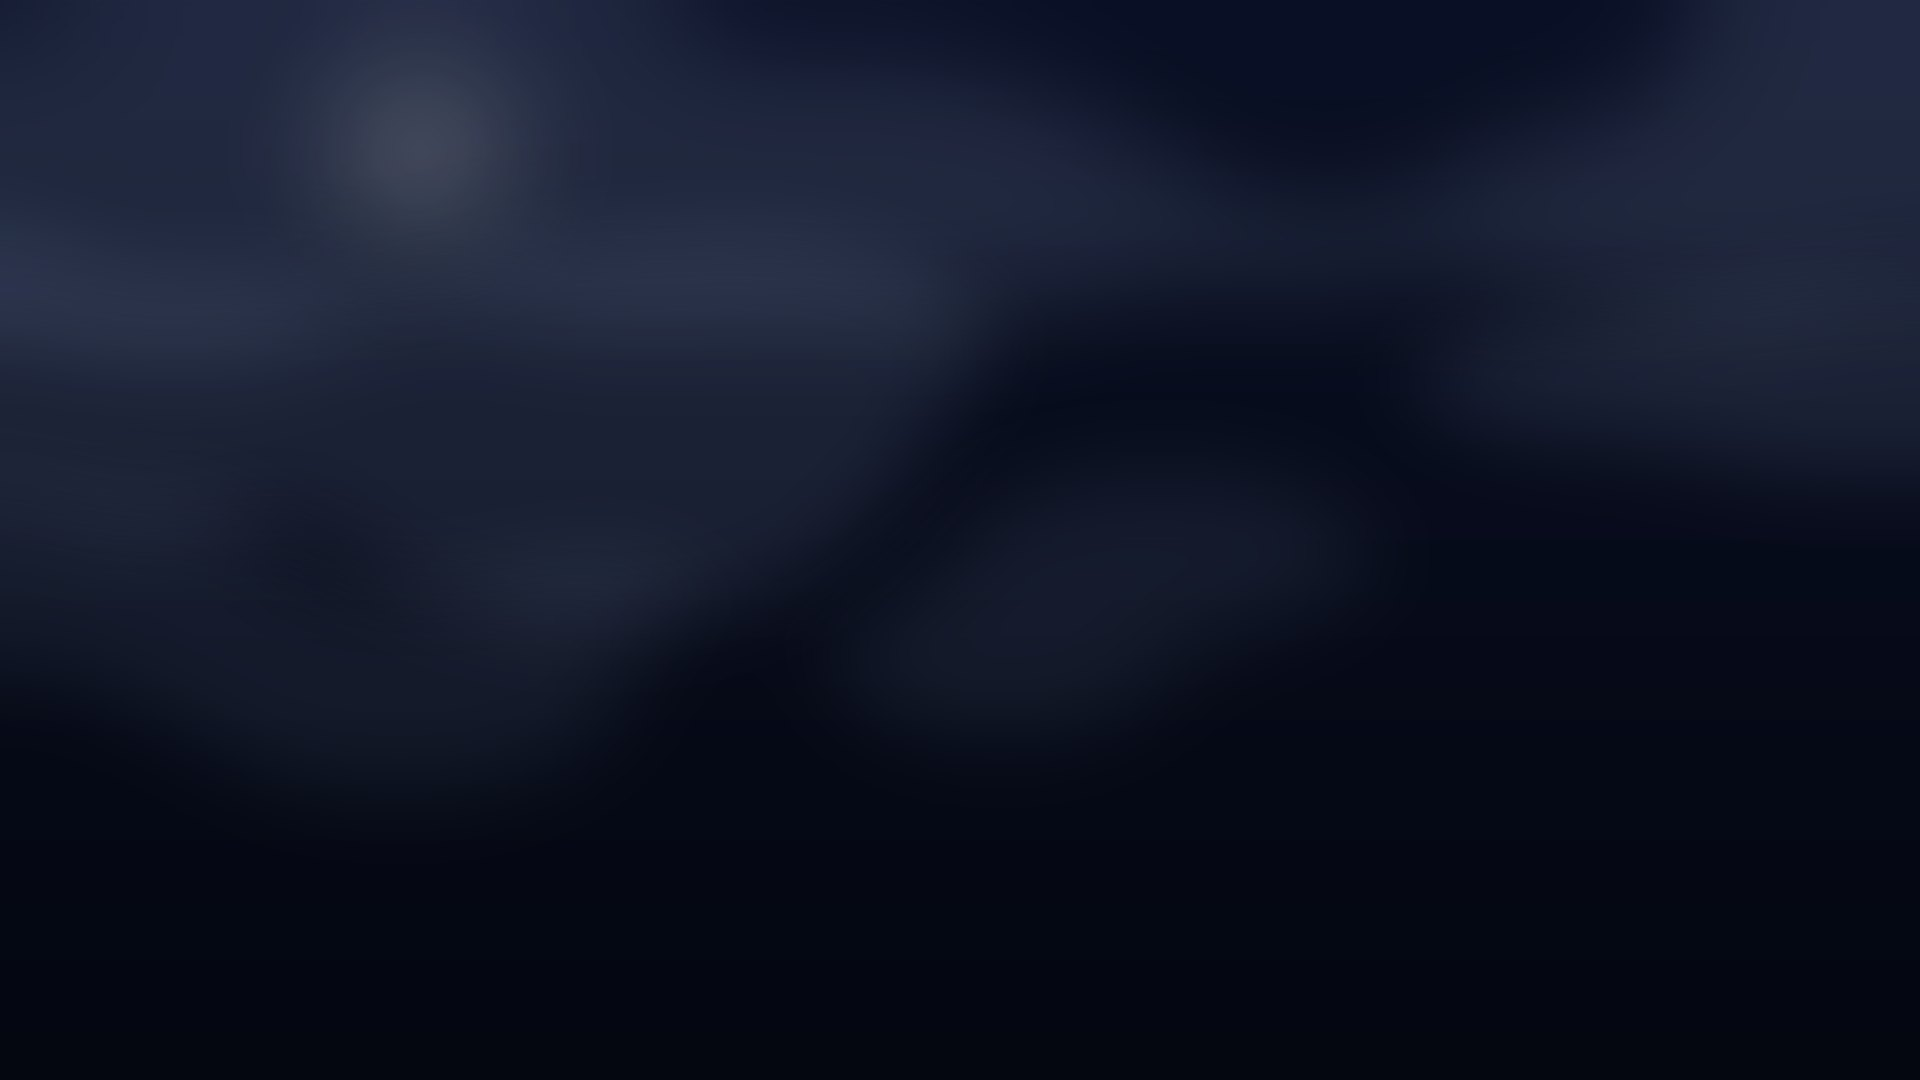
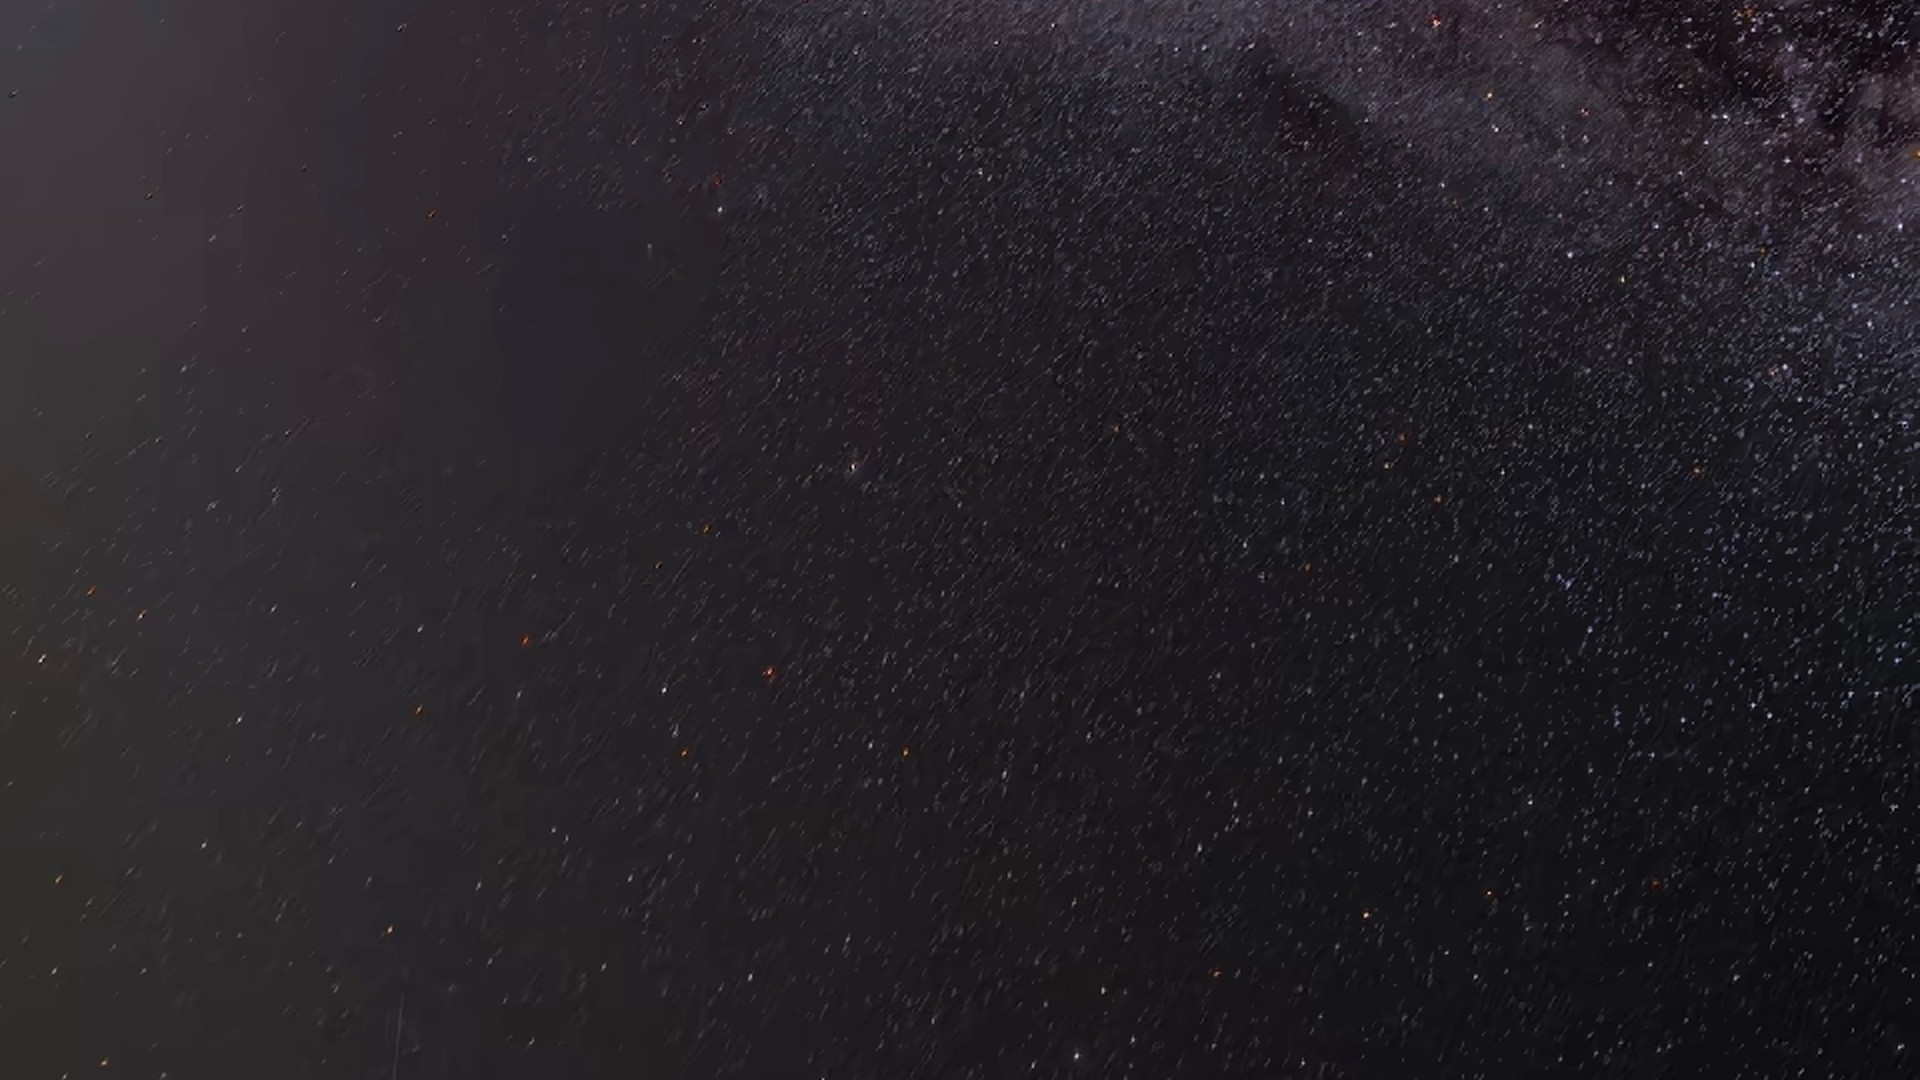
feat: 个人信息头像改为上传，保留外链作为备选
Profile 原来只有 avatar_url（外链），需要自己找图床。
改成 ImageField 本地上传，同时保留外链字段兼容旧数据。

模型：
- 新增 avatar = ImageField(upload_to='avatars/')
  用 ImageField 而非 FileField：前者会真的解码校验是图片，
  防止有人传个 .jpg 后缀的脚本
- avatar_url 保留，但语义改为「仅在没上传头像时使用」
- 新增 avatar_src 属性统一取头像地址：上传优先，其次外链，
  都没有则返回空串。模板靠它判断是否渲染 <img>，
  避免显示破图框

为什么用属性而不是在模板里写两层 if：
头像要在首页侧栏和关于页两处使用，
逻辑写一处才不会两处走偏。

Admin：
- fieldsets 分「基本信息 / 头像 / 联系方式」
- 列表页 avatar_preview 显示 32px 圆形缩略图
- 编辑页 avatar_preview_large 显示 96px 预览，
  上传后保存就能确认结果，不用去前台看
- 预览用 format_html 而不是字符串拼 HTML，
  它会转义参数，避免 URL 里的特殊字符破坏标签

模板：
- _profile_card.html 与 about.html 都改用 avatar_src

测试（ProfileAvatarTest，4 个）：
- 两个都空时 avatar_src 为空串
- 没上传时回退到外链
- 两个都有时上传的优先（最容易写反的地方）
- 上传后首页与关于页都渲染该头像
- tearDown 删除测试产生的文件：上传文件不随测试数据库回滚

实测：
- Admin 表单 enctype=multipart/form-data，文件框 accept=image/*
- 上传 200x200 PNG 写入 media/avatars/，HTTP 200 image/png
- 首页与关于页均正确渲染 /media/avatars/xxx.png
- 47 个测试通过

diff --git a/blog/templates/blog/_profile_card.html b/blog/templates/blog/_profile_card.html
@@ -1,8 +1,8 @@
 {% if profile.nickname %}
     <section class="glass p-5">
         <div class="flex items-start gap-4">
-            {% if profile.avatar_url %}
-                <img src="{{ profile.avatar_url }}" alt="{{ profile.nickname }}"
+            {% if profile.avatar_src %}
+                <img src="{{ profile.avatar_src }}" alt="{{ profile.nickname }}"
                      class="h-16 w-16 shrink-0 rounded-full object-cover">
             {% else %}
                 <div class="flex h-16 w-16 shrink-0 items-center justify-center rounded-full bg-brand/10 text-xl font-semibold text-brand dark:bg-brand/20">

diff --git a/blog/templates/blog/about.html b/blog/templates/blog/about.html
@@ -6,8 +6,8 @@
 
         {% if profile.nickname %}
             <div class="mt-6 flex items-start gap-5">
-                {% if profile.avatar_url %}
-                    <img src="{{ profile.avatar_url }}" alt="{{ profile.nickname }}"
+                {% if profile.avatar_src %}
+                    <img src="{{ profile.avatar_src }}" alt="{{ profile.nickname }}"
                          class="h-20 w-20 shrink-0 rounded-full object-cover">
                 {% endif %}
                 <div class="min-w-0">

diff --git a/blog/admin.py b/blog/admin.py
@@ -5,7 +5,9 @@ admin.py 配置 Django 后台的显示方式。
 ModelAdmin 里的每一项都是「展示层」配置，不影响数据存储和校验规则。
 """
 from django.contrib import admin, messages
-from .models import Post, Category, Tag, WeeklyProgress, Project, Profile, GuestbookMessage
+from django.utils.html import format_html
+
+from .models import Category, GuestbookMessage, Post, Profile, Project, Tag, WeeklyProgress
 
 
 @admin.register(Post)
@@ -112,7 +114,46 @@ class ProjectAdmin(admin.ModelAdmin):
 
 @admin.register(Profile)
 class ProfileAdmin(admin.ModelAdmin):
-    list_display = ('nickname', 'tagline', 'email', 'updated_date')
+    list_display = ('nickname', 'avatar_preview', 'tagline', 'email', 'updated_date')
+    # 单例模型，只有一条记录，不需要搜索和筛选
+    fieldsets = (
+        ('基本信息', {
+            'fields': ('nickname', 'tagline'),
+        }),
+        ('头像', {
+            'fields': ('avatar', 'avatar_preview_large', 'avatar_url'),
+            'description': '两个都填时，上传的图片优先生效。'
+                           '上传后保存即可看到预览，不需要先去前台确认。',
+        }),
+        ('联系方式', {
+            'fields': ('email', 'github_url', 'social_links'),
+        }),
+    )
+    # 预览图不能在保存后手动改，否则会误导
+    readonly_fields = ('avatar_preview_large',)
+
+    @admin.display(description='头像')
+    def avatar_preview(self, obj):
+        """列表页的小缩略图。"""
+        src = obj.avatar_src if obj else ''
+        if not src:
+            return '（未设置）'
+        return format_html(
+            '<img src="{}" style="height:32px;width:32px;border-radius:50%;object-fit:cover;">',
+            src,
+        )
+
+    @admin.display(description='当前头像')
+    def avatar_preview_large(self, obj):
+        """编辑页的大预览，方便确认上传结果。"""
+        src = obj.avatar_src if obj else ''
+        if not src:
+            return '（还没上传头像）'
+        return format_html(
+            '<img src="{}" style="height:96px;width:96px;border-radius:50%;'
+            'object-fit:cover;border:1px solid #ddd;">',
+            src,
+        )
 
     def has_add_permission(self, request):
         # 单例模型：已经存在一条时不再允许「新增」，

diff --git a/blog/models.py b/blog/models.py
@@ -210,7 +210,26 @@ class Profile(models.Model):
     # 单例模型：全局只应该有一条记录。用 OneToOneField 指向用户 +
     # save() 里强制 pk=1 双保险，避免后台误建第二条
     nickname = models.CharField(max_length=50)
-    avatar_url = models.URLField(blank=True, default='')
+
+    # 头像两种来源，优先用上传的文件：
+    # avatar 是本地图（推荐），avatar_url 留着兼容外链头像。
+    # 用 ImageField 而不是 FileField：前者会校验确实是图片，
+    # 避免有人传个 .jpg 后缀的脚本上去。
+    # blank=True 与 default='' 配对：没传时存空字符串而不是 NULL，
+    # 模板里 {% if profile.avatar %} 能直接判断
+    avatar = models.ImageField(
+        upload_to='avatars/',
+        blank=True,
+        default='',
+        verbose_name='头像（上传）',
+        help_text='上传后优先生效；留空则用下面的外链地址',
+    )
+    avatar_url = models.URLField(
+        blank=True,
+        default='',
+        verbose_name='头像（外链）',
+        help_text='仅在没上传头像时使用',
+    )
     tagline = models.CharField(max_length=120, blank=True, default='')
     email = models.EmailField(blank=True, default='')
     github_url = models.URLField(blank=True, default='')
@@ -225,6 +244,22 @@ class Profile(models.Model):
 
     def __str__(self):
         return self.nickname
+
+    @property
+    def avatar_src(self):
+        """模板里统一用这个取头像地址。
+
+        上传的图优先，其次外链，都没有则返回空字符串，
+        模板靠 {% if profile.avatar_src %} 判断是否渲染 <img>，
+        否则会显示一个破图框。
+
+        用属性而不是模板里写 if/else 两层：
+        头像在两个模板（首页侧栏、关于页）都要用，
+        逻辑写一处才不会两处走偏。
+        """
+        if self.avatar:
+            return self.avatar.url
+        return self.avatar_url
 
     def save(self, *args, **kwargs):
         # 强制主键为 1：无论新建多少次，都只会覆盖同一条记录

diff --git a/blog/migrations/0015_profile_avatar_alter_profile_avatar_url.py b/blog/migrations/0015_profile_avatar_alter_profile_avatar_url.py
@@ -1,0 +1,23 @@
+# Generated by Django 5.2.17 on 2026-11-22 04:13
+
+from django.db import migrations, models
+
+
+class Migration(migrations.Migration):
+
+    dependencies = [
+        ('blog', '0014_guestbookmessage'),
+    ]
+
+    operations = [
+        migrations.AddField(
+            model_name='profile',
+            name='avatar',
+            field=models.ImageField(blank=True, default='', help_text='上传后优先生效；留空则用下面的外链地址', upload_to='avatars/', verbose_name='头像（上传）'),
+        ),
+        migrations.AlterField(
+            model_name='profile',
+            name='avatar_url',
+            field=models.URLField(blank=True, default='', help_text='仅在没上传头像时使用', verbose_name='头像（外链）'),
+        ),
+    ]
